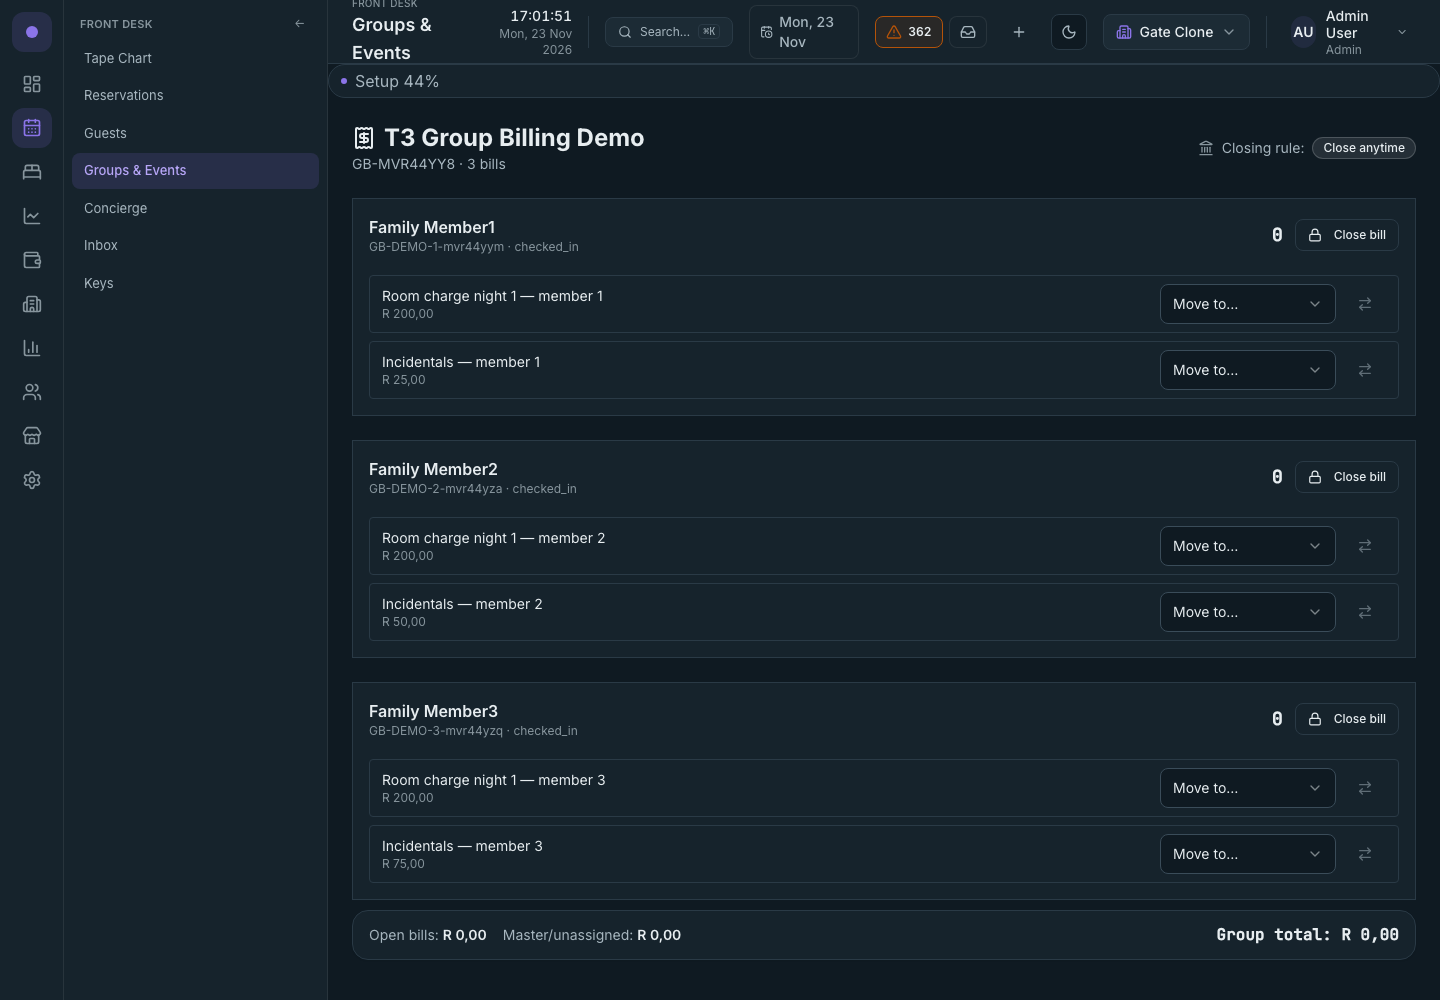
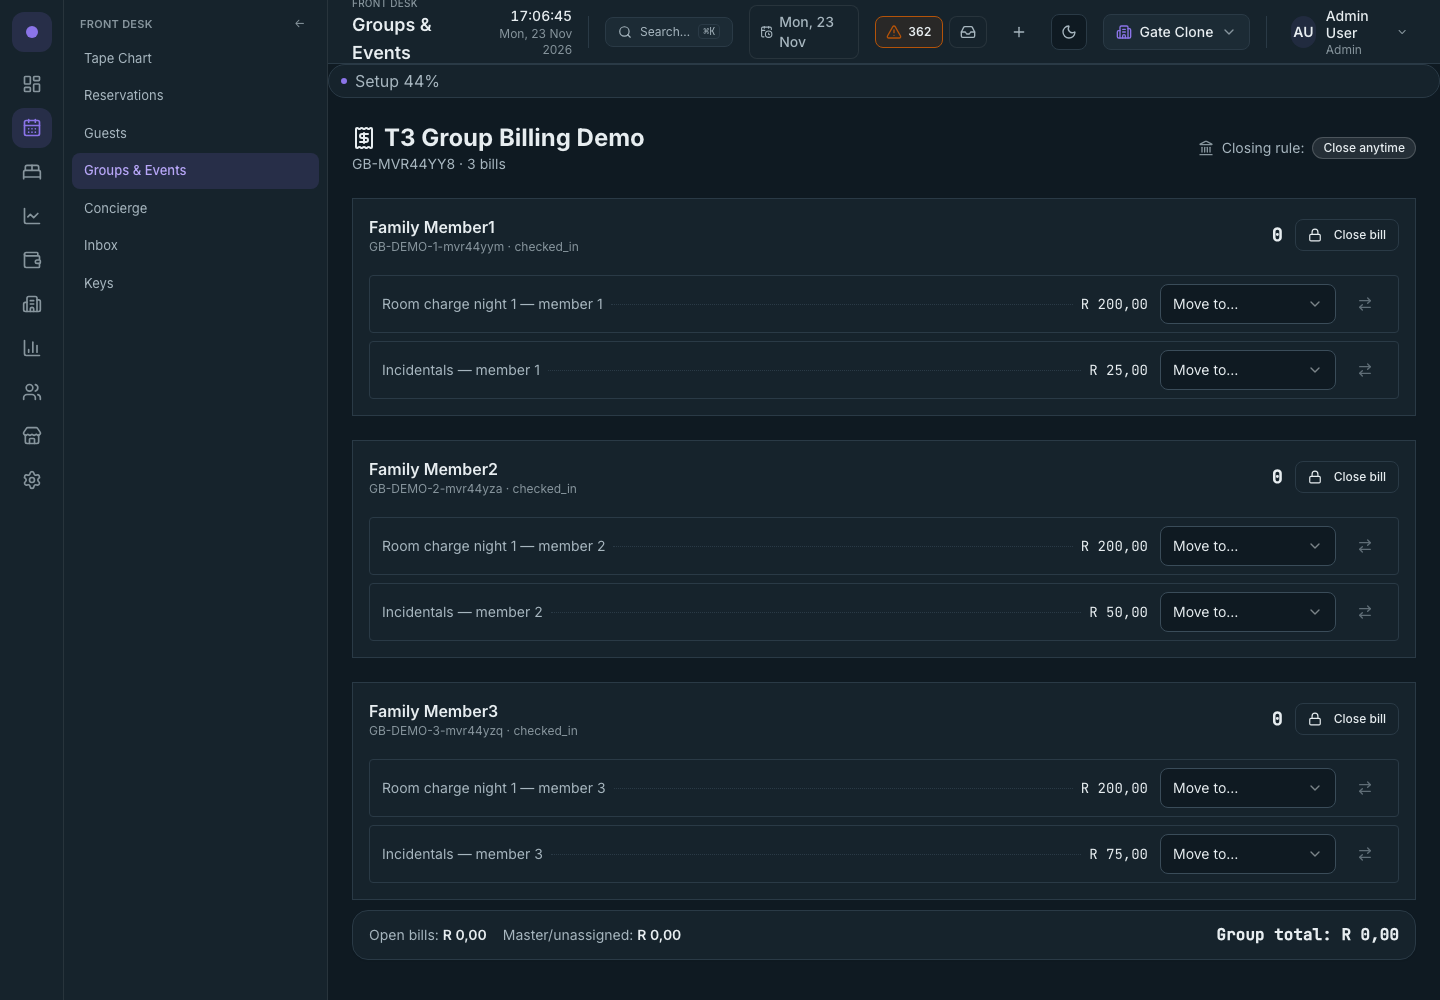
feat(p7.3): ReceiptCard rollout — export the S6 Row primitive; groups/billing FolioCard item rows adopt the dotted-leader anatomy (move controls preserved); walk re-evidenced (4/4, screenshot)

diff --git a/apps/web/src/app/app/groups/billing/page.jsx b/apps/web/src/app/app/groups/billing/page.jsx
@@ -1,4 +1,5 @@
 /* apps/web/src/app/app/groups/billing/page.jsx — T3+ group billing view */
+import { Row } from '@/components/billing/ReceiptCard';
 import { useState } from 'react';
 import { useSearchParams } from 'react-router-dom';
 import { useQuery, useMutation, useQueryClient } from '@tanstack/react-query';
@@ -239,14 +240,15 @@ function FolioCard({
             key={item.id}
             className="flex items-center justify-between gap-3 rounded border border-border px-3 py-2 text-sm"
           >
-            <div>
-              <p className="text-text-primary">{item.description}</p>
-              <p className="text-xs text-text-muted">
-                {money(item.amount * item.quantity)}
-                {item.movedAt
-                  ? ` · moved ${new Date(item.movedAt).toLocaleDateString('en-ZA')}`
-                  : ''}
-              </p>
+            <div className="min-w-0 flex-1">
+              <Row
+                label={
+                  item.movedAt
+                    ? `${item.description} · moved ${new Date(item.movedAt).toLocaleDateString('en-ZA')}`
+                    : item.description
+                }
+                amount={item.amount * item.quantity}
+              />
             </div>
             <div className="flex items-center gap-2">
               <Select

diff --git a/apps/web/src/components/billing/ReceiptCard.jsx b/apps/web/src/components/billing/ReceiptCard.jsx
@@ -7,7 +7,7 @@ import { formatMoney } from '../../lib/money';
 
 const fmt = (n, currency = 'ZAR') => formatMoney(Number(n) || 0, currency);
 
-function Row({ label, amount, currency, tone }) {
+export function Row({ label, amount, currency, tone }) {
   return (
     <div className="flex items-baseline gap-2 text-sm">
       <span className="text-text-secondary">{label}</span>
